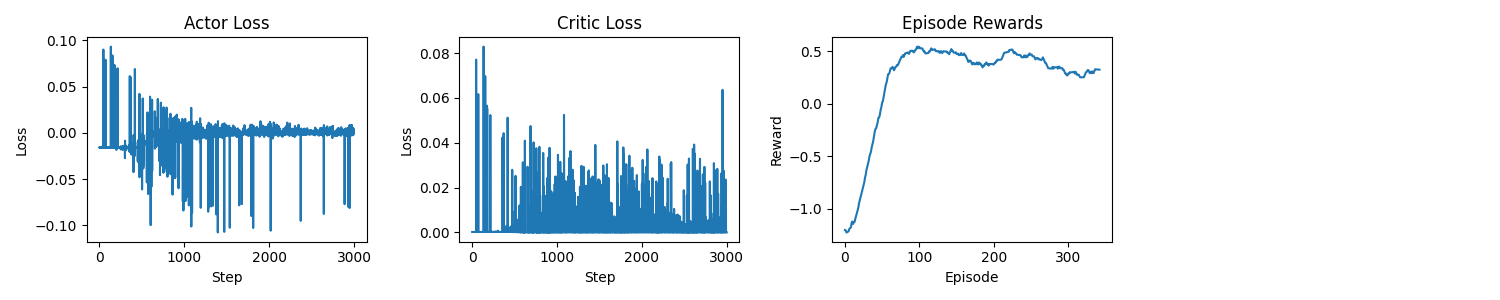
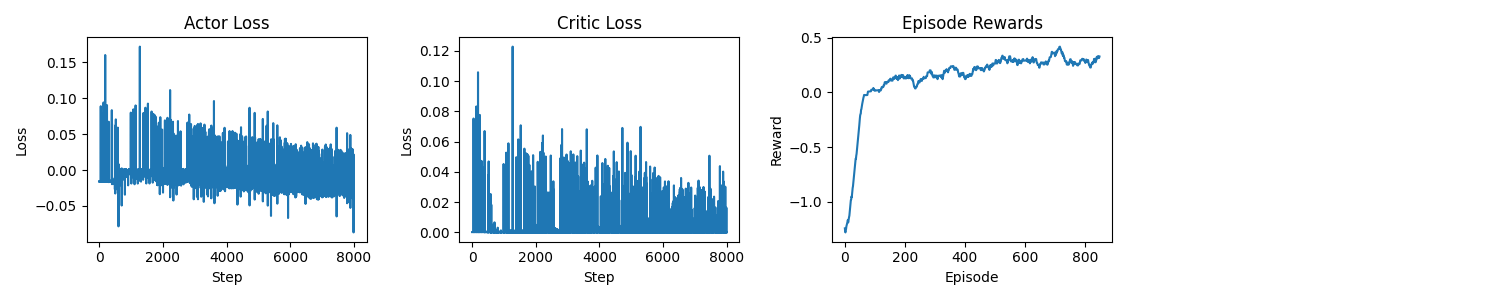
prog

diff --git a/model/minigrid/main.py b/model/minigrid/main.py
@@ -29,17 +29,17 @@ else:
 
 NUM_ACTIONS = 3  # MiniGrid has 3 actions: left, right, forward
 NUM_ENVS = 10
-NUM_STEPS = 10000
+NUM_STEPS = 40000
 EVAL_FREQ = NUM_STEPS - 1
 RENDER_EVAL = False
 WINDOW_SIZE = 50
 
 HIDDEN_SIZE = 128
-ACTOR_LR = 1e-5
-CRITIC_LR = 2e-5
+ACTOR_LR = 1e-6
+CRITIC_LR = 2e-6
 
 RESERVOIR_SIZE = 1000
-STATE_LR = 1e-5
+STATE_LR = 1e-6
 STATE_LOSS_THRESHOLD = 1.5
 
 env_name = 'MiniGrid-Empty-8x8-v0'
@@ -259,8 +259,8 @@ def main() -> None:
 
                 # add to existing rewards a state reward that is magnitude of activations in EBM
                 from model.ff.ff import layer_activations_to_badness
-                # state_rewards = (layer_activations_to_badness(state_activations_next).detach().unsqueeze(1) - STATE_LOSS_THRESHOLD) * .01
-                state_rewards = torch.zeros_like(layer_activations_to_badness(state_activations_next).detach().unsqueeze(1))
+                state_rewards = (layer_activations_to_badness(state_activations_next).detach().unsqueeze(1) - STATE_LOSS_THRESHOLD) * .01
+                # state_rewards = torch.zeros_like(layer_activations_to_badness(state_activations_next).detach().unsqueeze(1))
                 wandb.log({
                     "state_reward": state_rewards.squeeze().mean().item()
                 })
